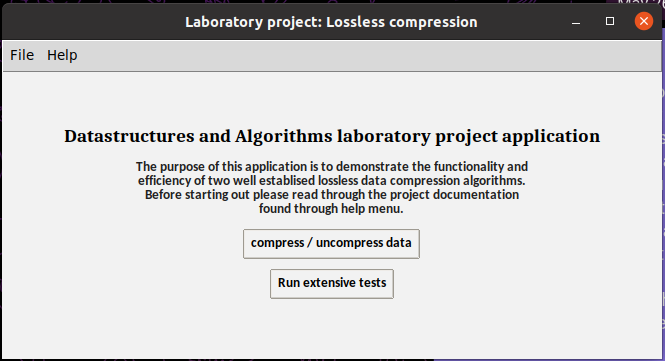
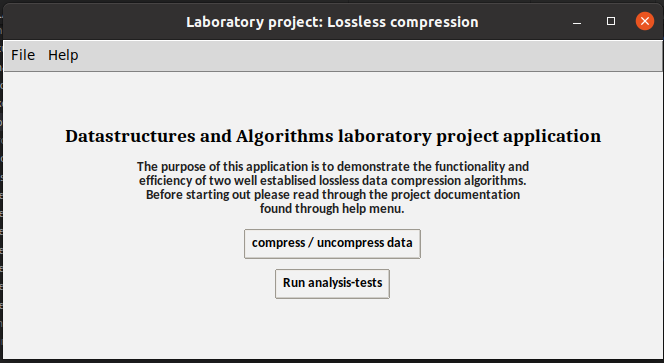
Update how-to-guide

Changed region(s): [[0.0, 0.0, 1.0, 1.0], [0.0904, 0.3352, 0.9036, 0.8227]]

diff --git a/documentation/how-to-guide.md b/documentation/how-to-guide.md
@@ -40,37 +40,58 @@ Start by selecting either an uncompressed txt-file or compressed huf- or lz-file
 
 ![File explorer](images/how-to-guide-compression-view-explorer.png)
 
-Once compression / uncompression is done, analysis of results will be showcased. 
+Once compression / uncompression is done, short analysis of results will be showcased. 
 
 ![Analysis](images/how-to-guide-compression-view-action-taken.png)
 
 A compressed file is created into the same directory. Data is stored as bytes.  
 
-A log-file containing the showcased analysis on the compression is created. The most recent log-entry is by default in the file compression.log. The older entries are in file compression_archive.log.  
+## Analysis-tests view
+In the GUI's 'analysis-tests' view user can create new randomly created test material or run analysis-tests on the files located in the configured test-folder.  
 
+When the analysis-tests are run, all files in the configured directory (default: test-data) that match the minimum and maximum size defined by user are included. Included files are then compressed and uncompressed. All content is validated before compression and after uncompression original and uncompressed content of each file is verified to match. Analysis data is gathered from different steps of the process.
 
-![Log-archive](images/how-to-guide-log-file.png)
+Before running the tests user is asked to specify minimum and maximum character count for files to be included. If user for instance sets the values to `50000` and `2500000` files with a character count from 50,000 to 2,500,000 will be included in the tests. 
 
-## Extensive testing view
-An initial version of manually operatable tests are available. Currently user can create random data either in natural English lanaguage or as random printable ASCII-characters. User can then run extensive tests that go through all the files in the default test directory defined in the .env file. When launching the tests user is asked to define what is the maximum character length for the files to be included in testing. For instance, if user inputs 50000 (fifty thousand), files with 50,000 or less characters will be included in the tests.  
+User can view the results of the extensive tests in the desktop application, or from a generated HTML-file. The HTML-file includes two tables and five graphs to make reviewing the test analysis easier and more enjoyable.  
 
-![Extensive test view week 4](images/extensive-test-view-week-4.png)
+A sample of an HTML-log generated with the mentioned character limits (min: 50,000; max: 2,500,000) can be reviewed [here](https://htmlpreview.github.io/?https://github.com/heidi-holappa/tira-labra-2022/blob/master/test-data/compression-log.html). Please note that the htmlpreview web-application does not load images with relative paths. To view the HTML-report with images, download a copy of this project and view the content locally on your preferred browser, or review the images in the [Github -folder](https://github.com/heidi-holappa/tira-labra-2022/tree/master/test-data/images).
 
-Analysis data shows a summary of the test results. It also sums the number of successful and failed tests.  
-
-![Extensive test summary](images/how-to-guide-extensive-test-summary.png)
+![Extensive test view week 4](images/analysis-tests-view.png)
 
 ## Configuration
-The application uses dotenv for configuration. User can change the default folder used in File Explorer. 
+The application uses dotenv for configuration. User can reconfigure: 
+- certain paths (default compression/uncompression path, analysis-test -path)
+- filenames of different log-related files
+- filenames of the visualizations created for the HTML-log.
 
 
 # How To Run Tests
-To run the tests use the command `poetry run invoke test` in the root folder of the project. To generate a coverage report use the command `poetry run invoke coverage-report`.
+To run the limited but quicker test-set use the command `poetry run invoke test` in the root folder of the project. To run all available tests use the command `poetry run invoke extended-test`.  
 
+To generate a coverage report use the command `poetry run invoke coverage-report`.
+
+Please see [testing documentation](testing-documentation.md) for more information on tests.
+
+# Supported characters
+The application supports compressing txt-files with content consisting of the following characters: 
+
+```
+'0123456789abcdefghijklmnopqrstuvwxyzABCDEFGHIJKLMNOPQRSTUVWXYZ!"#$%&\'()*+,-./:;<=>?@[\\]^_`{|}~'
+```
+In addition following characters are supported:
+- (32) # whitespace
+- (10) # line-break
+- (228) # ä
+- (196) # Ä
+- (197) # Å
+- (229) # å
+- (246) # ö
+- (214) # Ö
+
+The compression creates byte-files with extensions .huf (Huffman coding) and .lz (Lempel-Ziv 77). An uncompressed version can then be created from these files.
 
 # For creator 
-Below are the course guidelines on what how-to-guide should include. These are here for easier access. Will be deleted once the project is finished:
-
 * Miten ohjelma suoritetaan, miten eri toiminnallisuuksia käytetään
 * Minkä muotoisia syötteitä ohjelma hyväksyy
 * Missä hakemistossa on jar ja ajamiseen tarvittavat testitiedostot.
